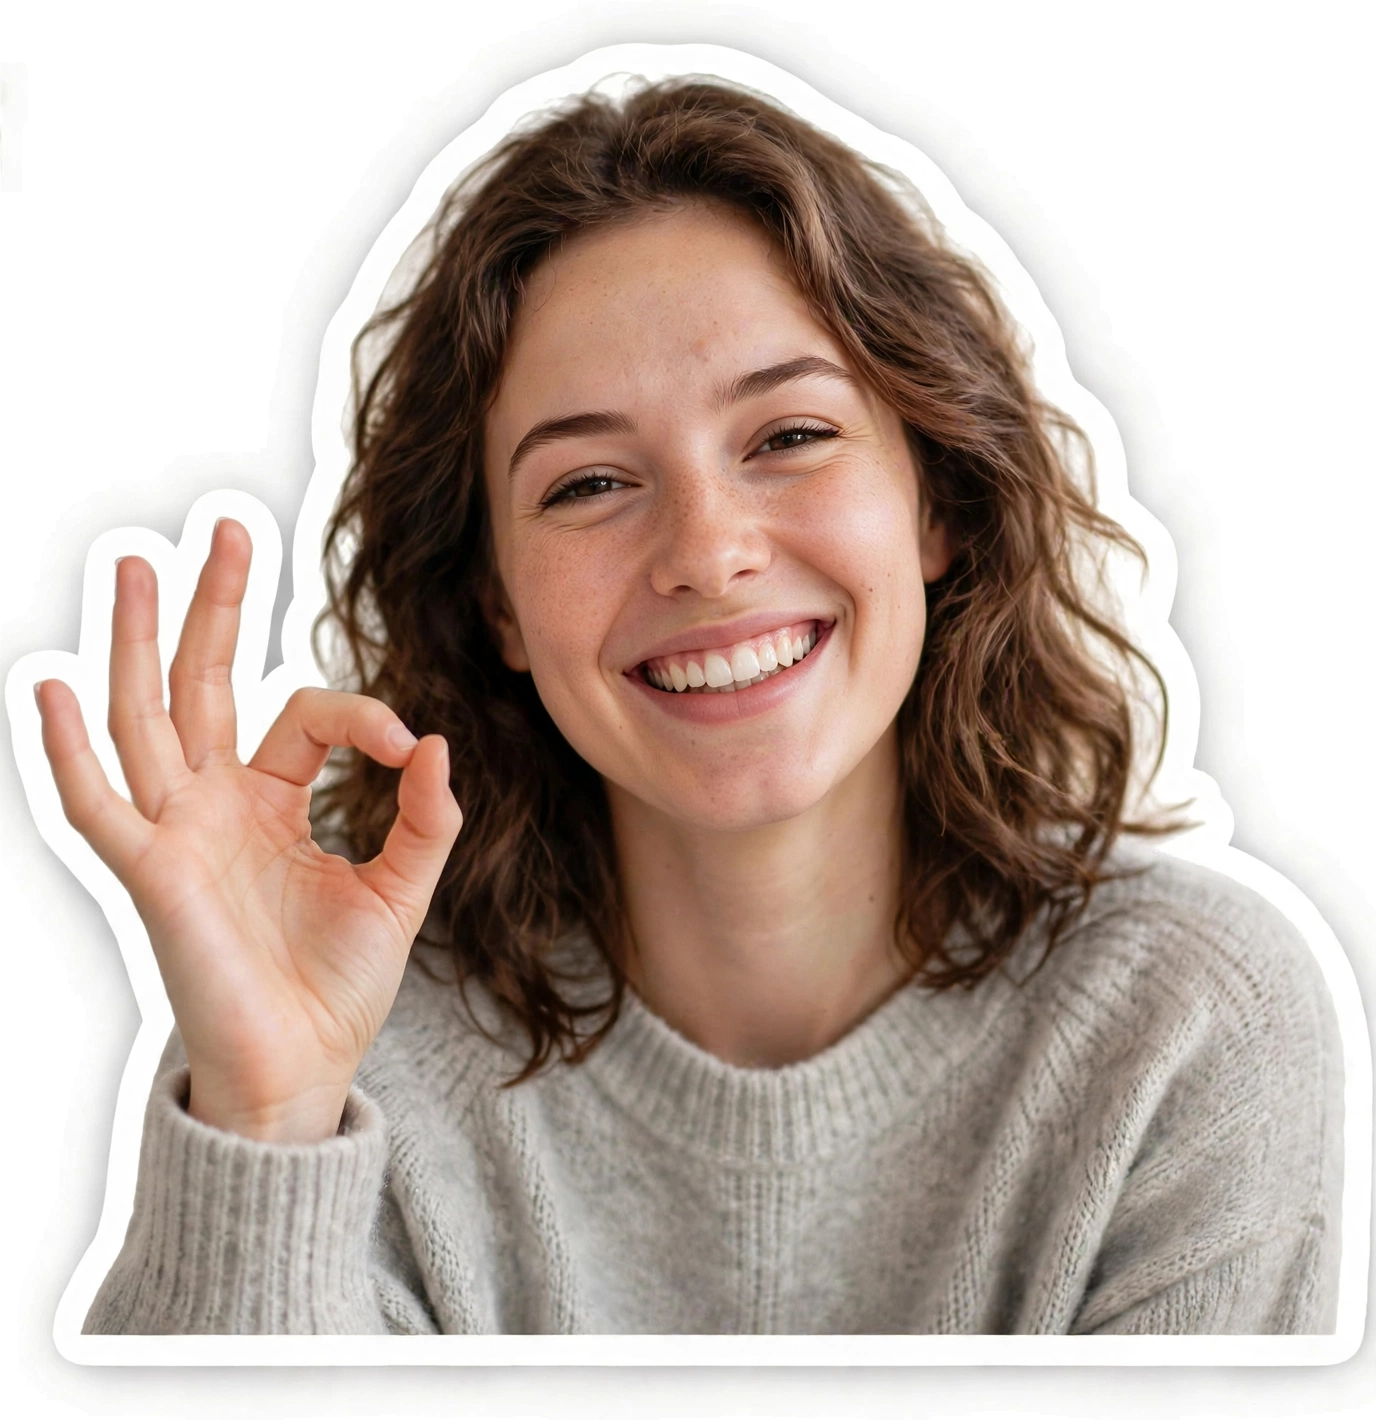
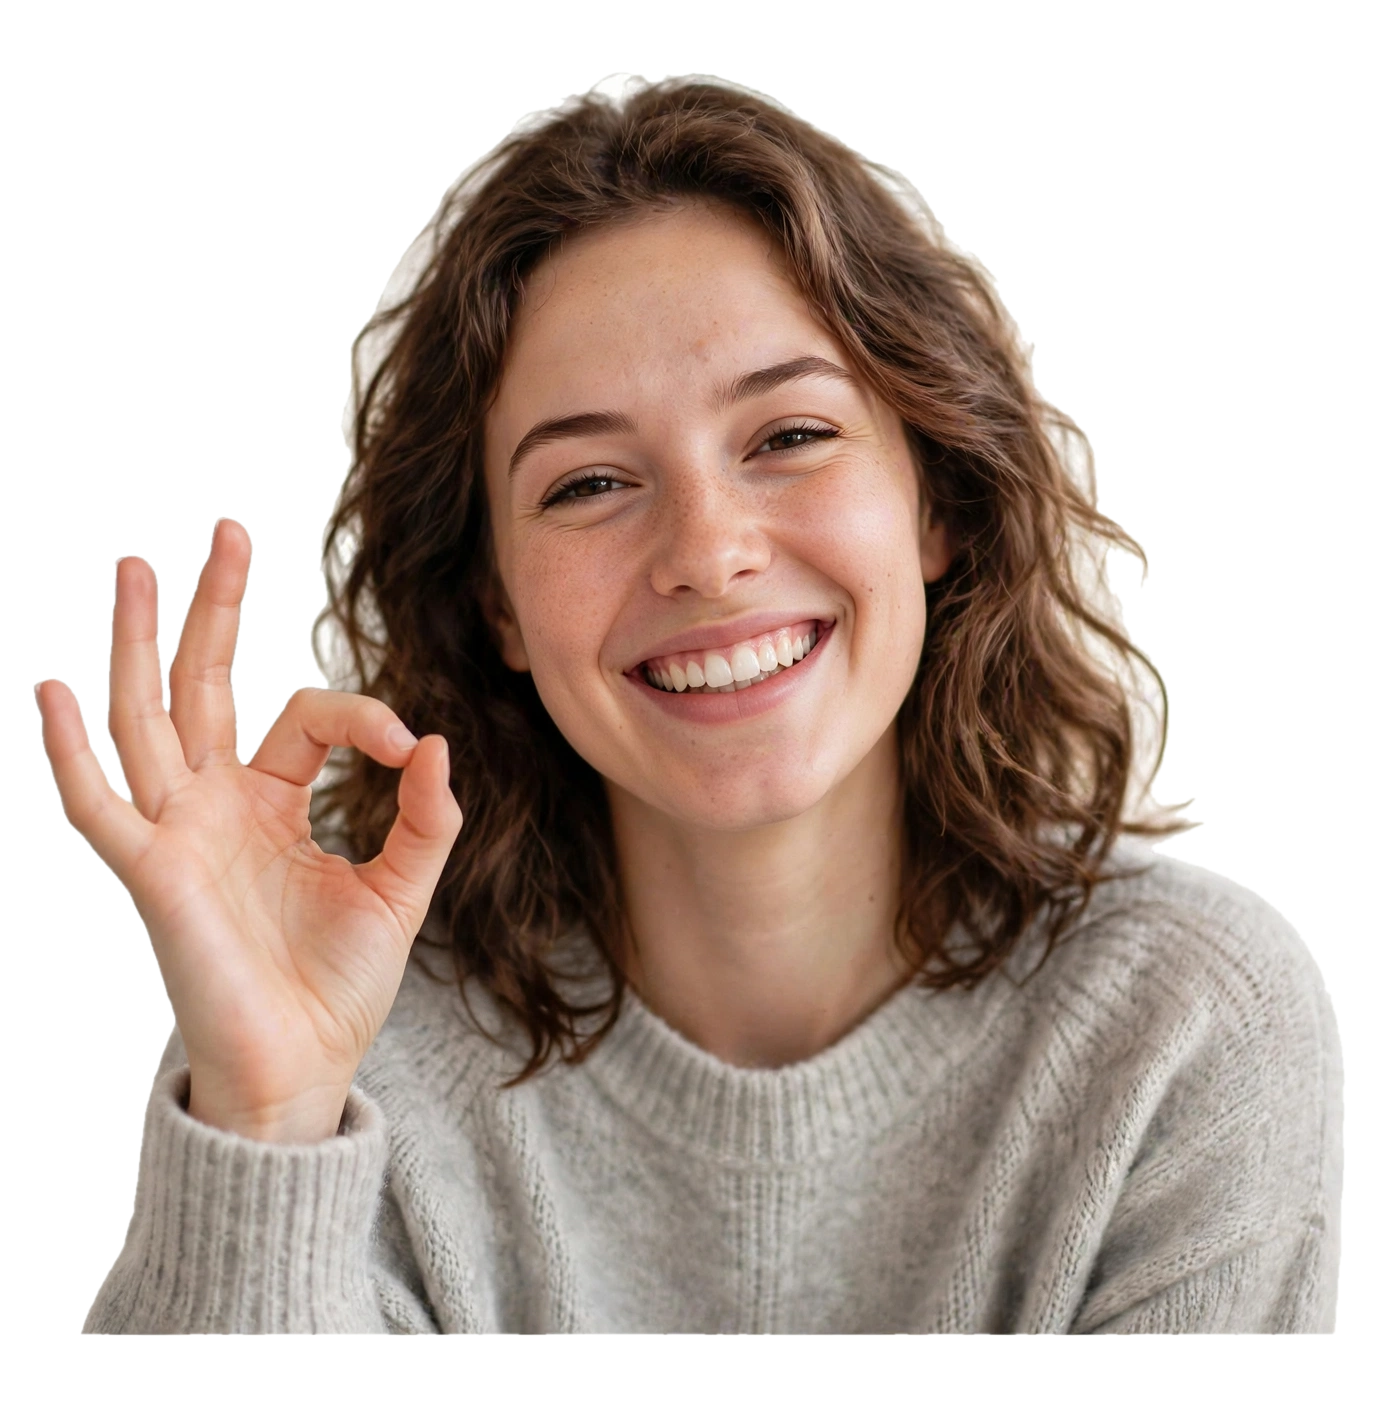
chutu: 修复默认人物贴纸（重做透明通道去白底噪点），默认人物也走白边算法

diff --git a/static/chutu/index.html b/static/chutu/index.html
@@ -1497,7 +1497,10 @@
   function loadDefaultPerson(tplKey, url) {
     var img = new Image();
     img.onload = function () {
-      personImgs[tplKey] = { img: img, outlined: img };
+      var out = hasTransparency(img)
+        ? whiteOutline(img, Math.max(8, Math.round(img.width * 0.012)))
+        : img;
+      personImgs[tplKey] = { img: img, outlined: out };
       if (currentTpl() === tplKey) render();
     };
     img.src = url;
